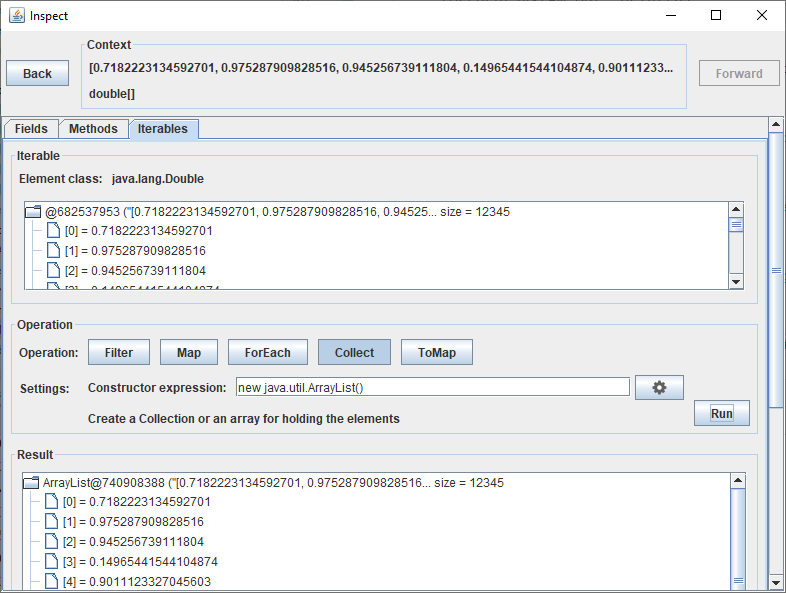
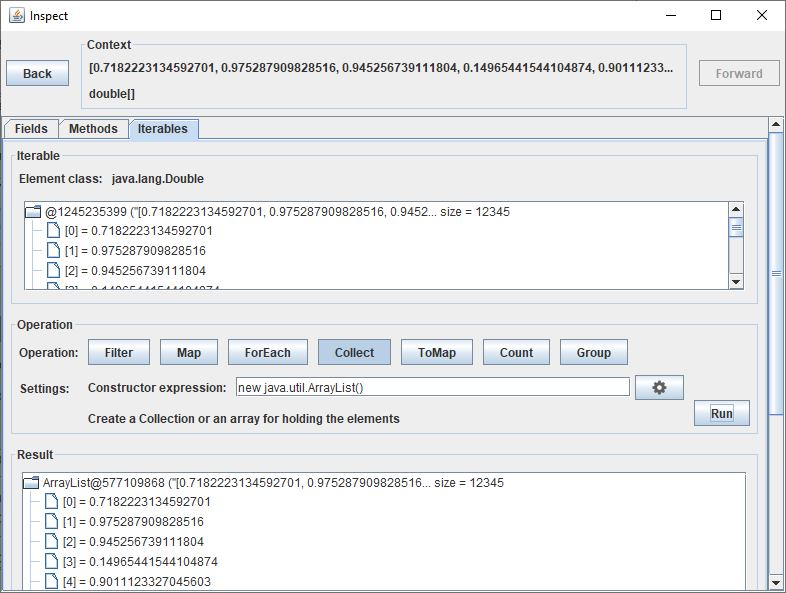
MOD IterableView: Added count and group operation

diff --git a/marple/src/dd/kms/marple/impl/gui/inspector/views/iterableview/panels/OperationPanel.java b/marple/src/dd/kms/marple/impl/gui/inspector/views/iterableview/panels/OperationPanel.java
@@ -23,6 +23,8 @@ public class OperationPanel extends JPanel
 	private final JToggleButton			forEachTB				= new JToggleButton();
 	private final JToggleButton			collectTB				= new JToggleButton();
 	private final JToggleButton			toMapTB					= new JToggleButton();
+	private final JToggleButton			countTB					= new JToggleButton();
+	private final JToggleButton			groupTB					= new JToggleButton();
 
 	private final ButtonGroup			operationButtonGroup	= new ButtonGroup();
 
@@ -31,6 +33,8 @@ public class OperationPanel extends JPanel
 	private final ForEachSettingsPanel	forEachSettingsPanel;
 	private final CollectSettingsPanel	collectSettingsPanel;
 	private final ToMapSettingsPanel	toMapSettingsPanel;
+	private final CountSettingsPanel	countSettingsPanel;
+	private final GroupSettingsPanel	groupSettingsPanel;
 
 	private final Map<Operation, JToggleButton> operationToButton = ImmutableMap.<Operation, JToggleButton>builder()
 																	.put(Operation.FILTER,		filterTB)
@@ -38,6 +42,8 @@ public class OperationPanel extends JPanel
 																	.put(Operation.FOR_EACH,	forEachTB)
 																	.put(Operation.COLLECT,		collectTB)
 																	.put(Operation.TO_MAP,		toMapTB)
+																	.put(Operation.COUNT,		countTB)
+																	.put(Operation.GROUP,		groupTB)
 																	.build();
 
 	private final Map<Operation, AbstractOperationSettingsPanel> operationToSettingsPanel;
@@ -55,6 +61,8 @@ public class OperationPanel extends JPanel
 		forEachSettingsPanel	= new ForEachSettingsPanel(commonElementType, context);
 		collectSettingsPanel	= new CollectSettingsPanel(commonElementType, context);
 		toMapSettingsPanel		= new ToMapSettingsPanel(commonElementType, context);
+		countSettingsPanel		= new CountSettingsPanel(commonElementType, context);
+		groupSettingsPanel		= new GroupSettingsPanel(commonElementType, context);
 
 		operationToSettingsPanel = ImmutableMap.<Operation, AbstractOperationSettingsPanel>builder()
 			.put(Operation.FILTER,		filterSettingsPanel)
@@ -62,6 +70,8 @@ public class OperationPanel extends JPanel
 			.put(Operation.FOR_EACH,	forEachSettingsPanel)
 			.put(Operation.COLLECT,		collectSettingsPanel)
 			.put(Operation.TO_MAP,		toMapSettingsPanel)
+			.put(Operation.COUNT,		countSettingsPanel)
+			.put(Operation.GROUP,		groupSettingsPanel)
 			.build();
 
 		setBorder(BorderFactory.createTitledBorder("Operation"));

diff --git a/marple/src/dd/kms/marple/impl/gui/inspector/views/iterableview/GroupOperationExecutor.java b/marple/src/dd/kms/marple/impl/gui/inspector/views/iterableview/GroupOperationExecutor.java
@@ -1,0 +1,51 @@
+package dd.kms.marple.impl.gui.inspector.views.iterableview;
+
+import com.google.common.collect.*;
+import com.google.common.primitives.Primitives;
+import dd.kms.marple.api.InspectionContext;
+import dd.kms.marple.impl.gui.inspector.views.iterableview.settings.GroupSettings;
+import dd.kms.marple.impl.gui.inspector.views.iterableview.settings.MapSettings;
+import dd.kms.zenodot.api.CompiledExpression;
+import dd.kms.zenodot.api.ParseException;
+import dd.kms.zenodot.api.wrappers.InfoProvider;
+import dd.kms.zenodot.api.wrappers.TypeInfo;
+
+import java.util.Objects;
+
+class GroupOperationExecutor extends AbstractOperationExecutor<GroupSettings>
+{
+	GroupOperationExecutor(Iterable<?> iterable, TypeInfo commonElementType, GroupSettings settings, InspectionContext context) {
+		super(iterable, commonElementType, settings, context);
+	}
+
+	@Override
+	void execute() throws Exception {
+		String mappingExpression = settings.getMappingExpression();
+		CompiledExpression compiledExpression = compile(mappingExpression);
+		Class<?> resultClass = compiledExpression.getResultType().getRawType();
+		if (Primitives.unwrap(resultClass) == void.class) {
+			throw new ParseException(mappingExpression, mappingExpression.length(), "The mapping expression must evaluate to something different than void", null);
+		}
+		Multimap<Object, Object> result = Comparable.class.isAssignableFrom(Primitives.wrap(resultClass))
+										? MultimapBuilder.treeKeys(this::compare).linkedListValues().build()
+										: ArrayListMultimap.create();
+		for (Object element : iterable) {
+			try {
+				Object group = compiledExpression.evaluate(InfoProvider.createObjectInfo(element)).getObject();
+				result.put(group, element);
+			} catch (Exception e) {
+				throw wrapEvaluationException(e, element);
+			}
+		}
+		displayResult(InfoProvider.createObjectInfo(result));
+	}
+
+	private int compare(Object o1, Object o2) {
+		if (Objects.equals(o1, o2)) {
+			return 0;
+		}
+		return	o1 == null	? 1 :
+				o2 == null	? -1
+							: ((Comparable) o1).compareTo(o2);
+	}
+}

diff --git a/marple/src/dd/kms/marple/impl/gui/inspector/views/iterableview/panels/AbstractMapSettingsPanel.java b/marple/src/dd/kms/marple/impl/gui/inspector/views/iterableview/panels/AbstractMapSettingsPanel.java
@@ -1,0 +1,54 @@
+package dd.kms.marple.impl.gui.inspector.views.iterableview.panels;
+
+import dd.kms.marple.api.InspectionContext;
+import dd.kms.marple.impl.gui.evaluator.textfields.CompiledExpressionInputTextField;
+import dd.kms.marple.impl.gui.evaluator.textfields.EvaluationTextFieldPanel;
+import dd.kms.zenodot.api.wrappers.TypeInfo;
+
+import javax.swing.*;
+import java.awt.*;
+import java.util.function.Consumer;
+
+import static dd.kms.marple.impl.gui.common.GuiCommons.DEFAULT_INSETS;
+import static java.awt.GridBagConstraints.*;
+
+abstract class AbstractMapSettingsPanel extends AbstractOperationSettingsPanel
+{
+	private final JLabel							mappingLabel		= new JLabel("Mapping:");
+	private final JPanel							mappingPanel;
+	private final CompiledExpressionInputTextField	mappingTF;
+	private final JLabel 							mappingInfoLabel	= new JLabel("'this' always refers to the element currently processed");
+
+	AbstractMapSettingsPanel(TypeInfo commonElementType, InspectionContext context) {
+		mappingTF = new CompiledExpressionInputTextField(context);
+		mappingPanel = new EvaluationTextFieldPanel(mappingTF, context);
+		mappingTF.setThisType(commonElementType);
+		mappingTF.setExpression("this");
+
+		int yPos = 0;
+		int xPos = 0;
+		add(mappingLabel,		new GridBagConstraints(xPos++, yPos,   1, 1, 0.0, 0.0, WEST, NONE, DEFAULT_INSETS, 0, 0));
+		add(mappingPanel,		new GridBagConstraints(xPos++, yPos++, 1, 1, 1.0, 0.0, WEST, HORIZONTAL, DEFAULT_INSETS, 0, 0));
+
+		xPos = 0;
+		add(mappingInfoLabel,	new GridBagConstraints(xPos++, yPos++, REMAINDER, 1, 0.0, 0.0, WEST, NONE, DEFAULT_INSETS, 0, 0));
+	}
+
+	@Override
+	void setExceptionConsumer(Consumer<Throwable> exceptionConsumer) {
+		mappingTF.setExceptionConsumer(exceptionConsumer);
+	}
+
+	@Override
+	void setAction(Runnable action) {
+		mappingTF.setEvaluationResultConsumer(ignored -> action.run());
+	}
+
+	String getMappingExpression() {
+		return mappingTF.getText();
+	}
+
+	void setMappingExpression(String mappingExpression) {
+		mappingTF.setText(mappingExpression);
+	}
+}

diff --git a/marple/src/dd/kms/marple/impl/gui/inspector/views/iterableview/CountOperationExecutor.java b/marple/src/dd/kms/marple/impl/gui/inspector/views/iterableview/CountOperationExecutor.java
@@ -1,0 +1,47 @@
+package dd.kms.marple.impl.gui.inspector.views.iterableview;
+
+import com.google.common.primitives.Primitives;
+import dd.kms.marple.api.InspectionContext;
+import dd.kms.marple.impl.gui.inspector.views.iterableview.settings.CountSettings;
+import dd.kms.marple.impl.gui.inspector.views.iterableview.settings.MapSettings;
+import dd.kms.zenodot.api.CompiledExpression;
+import dd.kms.zenodot.api.ParseException;
+import dd.kms.zenodot.api.wrappers.InfoProvider;
+import dd.kms.zenodot.api.wrappers.TypeInfo;
+
+import java.util.HashMap;
+import java.util.Map;
+import java.util.TreeMap;
+
+class CountOperationExecutor extends AbstractOperationExecutor<CountSettings>
+{
+	CountOperationExecutor(Iterable<?> iterable, TypeInfo commonElementType, CountSettings settings, InspectionContext context) {
+		super(iterable, commonElementType, settings, context);
+	}
+
+	@Override
+	void execute() throws Exception {
+		String mappingExpression = settings.getMappingExpression();
+		CompiledExpression compiledExpression = compile(mappingExpression);
+		Class<?> resultClass = compiledExpression.getResultType().getRawType();
+		if (Primitives.unwrap(resultClass) == void.class) {
+			throw new ParseException(mappingExpression, mappingExpression.length(), "The mapping expression must evaluate to something different than void", null);
+		}
+		Map<Object, Integer> result = Comparable.class.isAssignableFrom(Primitives.wrap(resultClass))
+										? new TreeMap<>()
+										: new HashMap<>();
+		for (Object element : iterable) {
+			try {
+				Object group = compiledExpression.evaluate(InfoProvider.createObjectInfo(element)).getObject();
+				Integer count = result.get(group);
+				if (count == null) {
+					count = 0;
+				}
+				result.put(group, count + 1);
+			} catch (Exception e) {
+				throw wrapEvaluationException(e, element);
+			}
+		}
+		displayResult(InfoProvider.createObjectInfo(result));
+	}
+}

diff --git a/marple/src/dd/kms/marple/impl/gui/inspector/views/iterableview/panels/CountSettingsPanel.java b/marple/src/dd/kms/marple/impl/gui/inspector/views/iterableview/panels/CountSettingsPanel.java
@@ -1,25 +1,25 @@
 package dd.kms.marple.impl.gui.inspector.views.iterableview.panels;
 
 import dd.kms.marple.api.InspectionContext;
-import dd.kms.marple.impl.gui.inspector.views.iterableview.settings.MapSettings;
+import dd.kms.marple.impl.gui.inspector.views.iterableview.settings.CountSettings;
 import dd.kms.marple.impl.gui.inspector.views.iterableview.settings.OperationSettings;
 import dd.kms.zenodot.api.wrappers.TypeInfo;
 
-class MapSettingsPanel extends AbstractMapSettingsPanel
+class CountSettingsPanel extends AbstractMapSettingsPanel
 {
-	MapSettingsPanel(TypeInfo commonElementType, InspectionContext context) {
+	CountSettingsPanel(TypeInfo commonElementType, InspectionContext context) {
 		super(commonElementType, context);
 	}
 
 	@Override
 	OperationSettings getSettings() {
 		String mappingExpression = getMappingExpression();
-		return new MapSettings(mappingExpression);
+		return new CountSettings(mappingExpression);
 	}
 
 	@Override
 	void setSettings(OperationSettings settings) {
-		MapSettings mapSettings = (MapSettings) settings;
-		setMappingExpression(mapSettings.getMappingExpression());
+		CountSettings countSettings = (CountSettings) settings;
+		setMappingExpression(countSettings.getMappingExpression());
 	}
 }

diff --git a/marple/src/dd/kms/marple/impl/gui/inspector/views/iterableview/panels/GroupSettingsPanel.java b/marple/src/dd/kms/marple/impl/gui/inspector/views/iterableview/panels/GroupSettingsPanel.java
@@ -1,25 +1,25 @@
 package dd.kms.marple.impl.gui.inspector.views.iterableview.panels;
 
 import dd.kms.marple.api.InspectionContext;
-import dd.kms.marple.impl.gui.inspector.views.iterableview.settings.MapSettings;
+import dd.kms.marple.impl.gui.inspector.views.iterableview.settings.GroupSettings;
 import dd.kms.marple.impl.gui.inspector.views.iterableview.settings.OperationSettings;
 import dd.kms.zenodot.api.wrappers.TypeInfo;
 
-class MapSettingsPanel extends AbstractMapSettingsPanel
+class GroupSettingsPanel extends AbstractMapSettingsPanel
 {
-	MapSettingsPanel(TypeInfo commonElementType, InspectionContext context) {
+	GroupSettingsPanel(TypeInfo commonElementType, InspectionContext context) {
 		super(commonElementType, context);
 	}
 
 	@Override
 	OperationSettings getSettings() {
 		String mappingExpression = getMappingExpression();
-		return new MapSettings(mappingExpression);
+		return new GroupSettings(mappingExpression);
 	}
 
 	@Override
 	void setSettings(OperationSettings settings) {
-		MapSettings mapSettings = (MapSettings) settings;
-		setMappingExpression(mapSettings.getMappingExpression());
+		GroupSettings groupSettings = (GroupSettings) settings;
+		setMappingExpression(groupSettings.getMappingExpression());
 	}
 }

diff --git a/marple/src/dd/kms/marple/impl/gui/inspector/views/iterableview/IterableView.java b/marple/src/dd/kms/marple/impl/gui/inspector/views/iterableview/IterableView.java
@@ -98,6 +98,10 @@ public class IterableView extends JPanel implements ObjectView
 				return new CollectOperationExecutor(iterable, commonElementType, (CollectSettings) settings, context);
 			case TO_MAP:
 				return new ToMapOperationExecutor(iterable, commonElementType, (ToMapSettings) settings, context);
+			case COUNT:
+				return new CountOperationExecutor(iterable, commonElementType, (CountSettings) settings, context);
+			case GROUP:
+				return new GroupOperationExecutor(iterable, commonElementType, (GroupSettings) settings, context);
 			default:
 				throw new IllegalStateException("Unsupported operation: " + operation);
 		}

diff --git a/marple/src/dd/kms/marple/impl/gui/inspector/views/iterableview/settings/CountSettings.java b/marple/src/dd/kms/marple/impl/gui/inspector/views/iterableview/settings/CountSettings.java
@@ -1,0 +1,19 @@
+package dd.kms.marple.impl.gui.inspector.views.iterableview.settings;
+
+public class CountSettings implements OperationSettings
+{
+	private final String	mappingExpression;
+
+	public CountSettings(String mappingExpression) {
+		this.mappingExpression = mappingExpression;
+	}
+
+	@Override
+	public Operation getOperation() {
+		return Operation.COUNT;
+	}
+
+	public String getMappingExpression() {
+		return mappingExpression;
+	}
+}

diff --git a/marple/src/dd/kms/marple/impl/gui/inspector/views/iterableview/settings/GroupSettings.java b/marple/src/dd/kms/marple/impl/gui/inspector/views/iterableview/settings/GroupSettings.java
@@ -1,0 +1,19 @@
+package dd.kms.marple.impl.gui.inspector.views.iterableview.settings;
+
+public class GroupSettings implements OperationSettings
+{
+	private final String	mappingExpression;
+
+	public GroupSettings(String mappingExpression) {
+		this.mappingExpression = mappingExpression;
+	}
+
+	@Override
+	public Operation getOperation() {
+		return Operation.GROUP;
+	}
+
+	public String getMappingExpression() {
+		return mappingExpression;
+	}
+}

diff --git a/marple/src/dd/kms/marple/impl/gui/inspector/views/iterableview/settings/Operation.java b/marple/src/dd/kms/marple/impl/gui/inspector/views/iterableview/settings/Operation.java
@@ -6,7 +6,9 @@ public enum Operation
 	MAP			("Map"),
 	FOR_EACH	("ForEach"),
 	COLLECT		("Collect"),
-	TO_MAP		("ToMap");
+	TO_MAP		("ToMap"),
+	COUNT		("Count"),
+	GROUP		("Group");
 
 	private final String	displayText;
 

diff --git a/README.md b/README.md
@@ -102,7 +102,7 @@ While the [component hierarchy tab](#component-hierarchy-tab) helps you finding 
 
 ## Analysis Support for Iterables, Arrays, and Maps
 
-The ["Iterables" tab](#iterables-tab) in the inspection dialog offers common operations for `Iterable`s and arrays: Filter, Map, ForEach, Collect, and ToMap. Similarly, the ["Maps" tab](#maps-tab) offers common operations for `Map` keys and values: Filter and Map.
+The ["Iterables" tab](#iterables-tab) in the inspection dialog offers common operations for `Iterable`s and arrays: Filter, Map, ForEach, Collect, ToMap, Count, and Group. Similarly, the ["Maps" tab](#maps-tab) offers common operations for `Map` keys and values: Filter and Map.
 
 ## Expression Evaluation
 
@@ -407,7 +407,7 @@ Like in the "Detailed View" of the "Fields" tab, you can sort methods according 
 
 ## Iterables Tab
 
-The "Iterables" tab is only visible if the selected object is an `Iterable` or an array. This tab provides common operations on `Iterable`s (Filter, Map, ForEach, Collect, and ToMap). We will discuss these operations in the remainder and how to use them for a stream-like analysis. 
+The "Iterables" tab is only visible if the selected object is an `Iterable` or an array. This tab provides common operations on `Iterable`s (Filter, Map, ForEach, Collect, ToMap, Count, and Group). We will discuss these operations in the remainder and how to use them for a stream-like analysis. 
 
 ![Iterables Tab](images/inspection_dialog/iterables_tab.png)
 
@@ -470,6 +470,22 @@ It is not necessary to specify the correct size. You may, e.g., create an empty 
 You can transform `Iterables` and arrays to a `Map` by specifying a key mapping and a value mapping:
 
 ![Transform to Map](images/inspection_dialog/iterables_tab/to_map.png)
+
+### Count
+
+You can specify a mapping that assigns a group to each element of the `Iterable` and then count the number of elements in each group:
+
+![Iterating over Iterables](images/inspection_dialog/iterables_tab/count.png)
+
+In this example, the number of elements of the `Iterable` that fall into the intervals [0.0, 0.1), [0.1, 0.2), ..., [0.9, 1.0), respectively, are counted. These intervals are represented by the numbers 0, 1, ..., 9. 
+
+### Group
+
+The group operation is very similar to the count operation. The only difference is that here we are not interested in the number of elements in each group, but in the elements in these groups themselves:
+
+![Iterating over Iterables](images/inspection_dialog/iterables_tab/group.png)
+
+In this example, all elements of the `Iterable` that fall into the intervals [0.0, 0.1), [0.1, 0.2), ..., [0.9, 1.0), respectively, are lister per interval. These intervals are represented by the numbers 0, 1, ..., 9. 
 
 ### Stream-like Analysis
 
